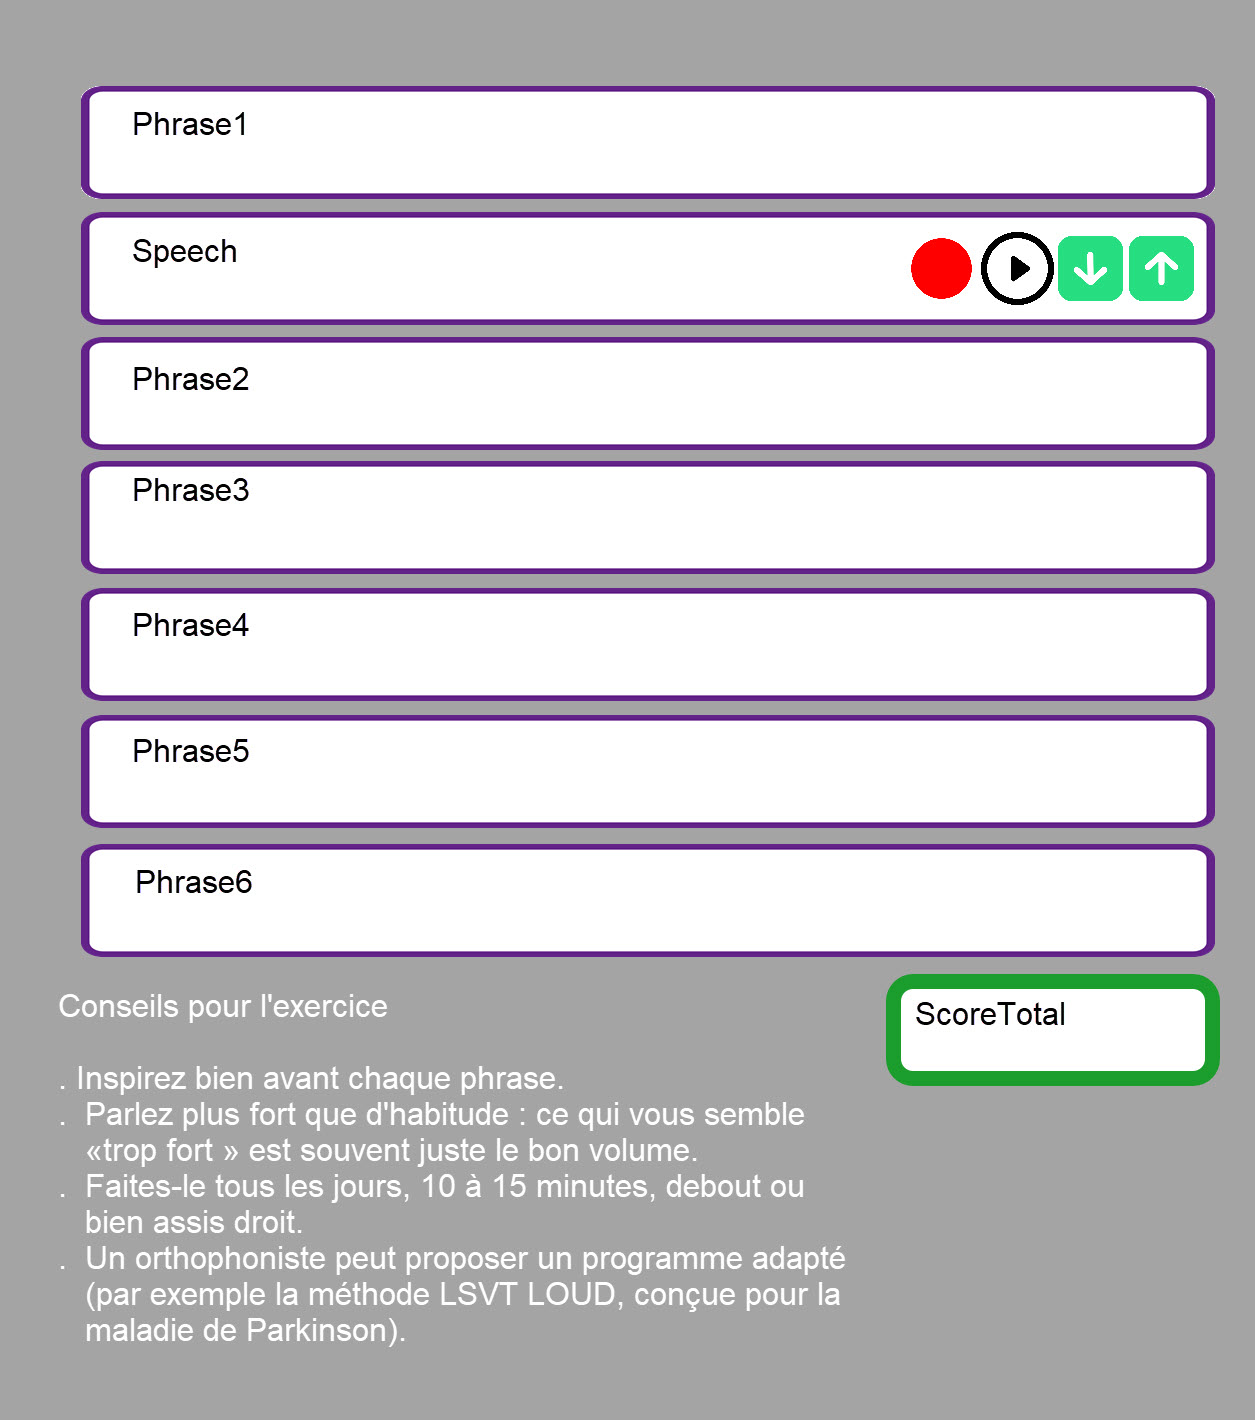
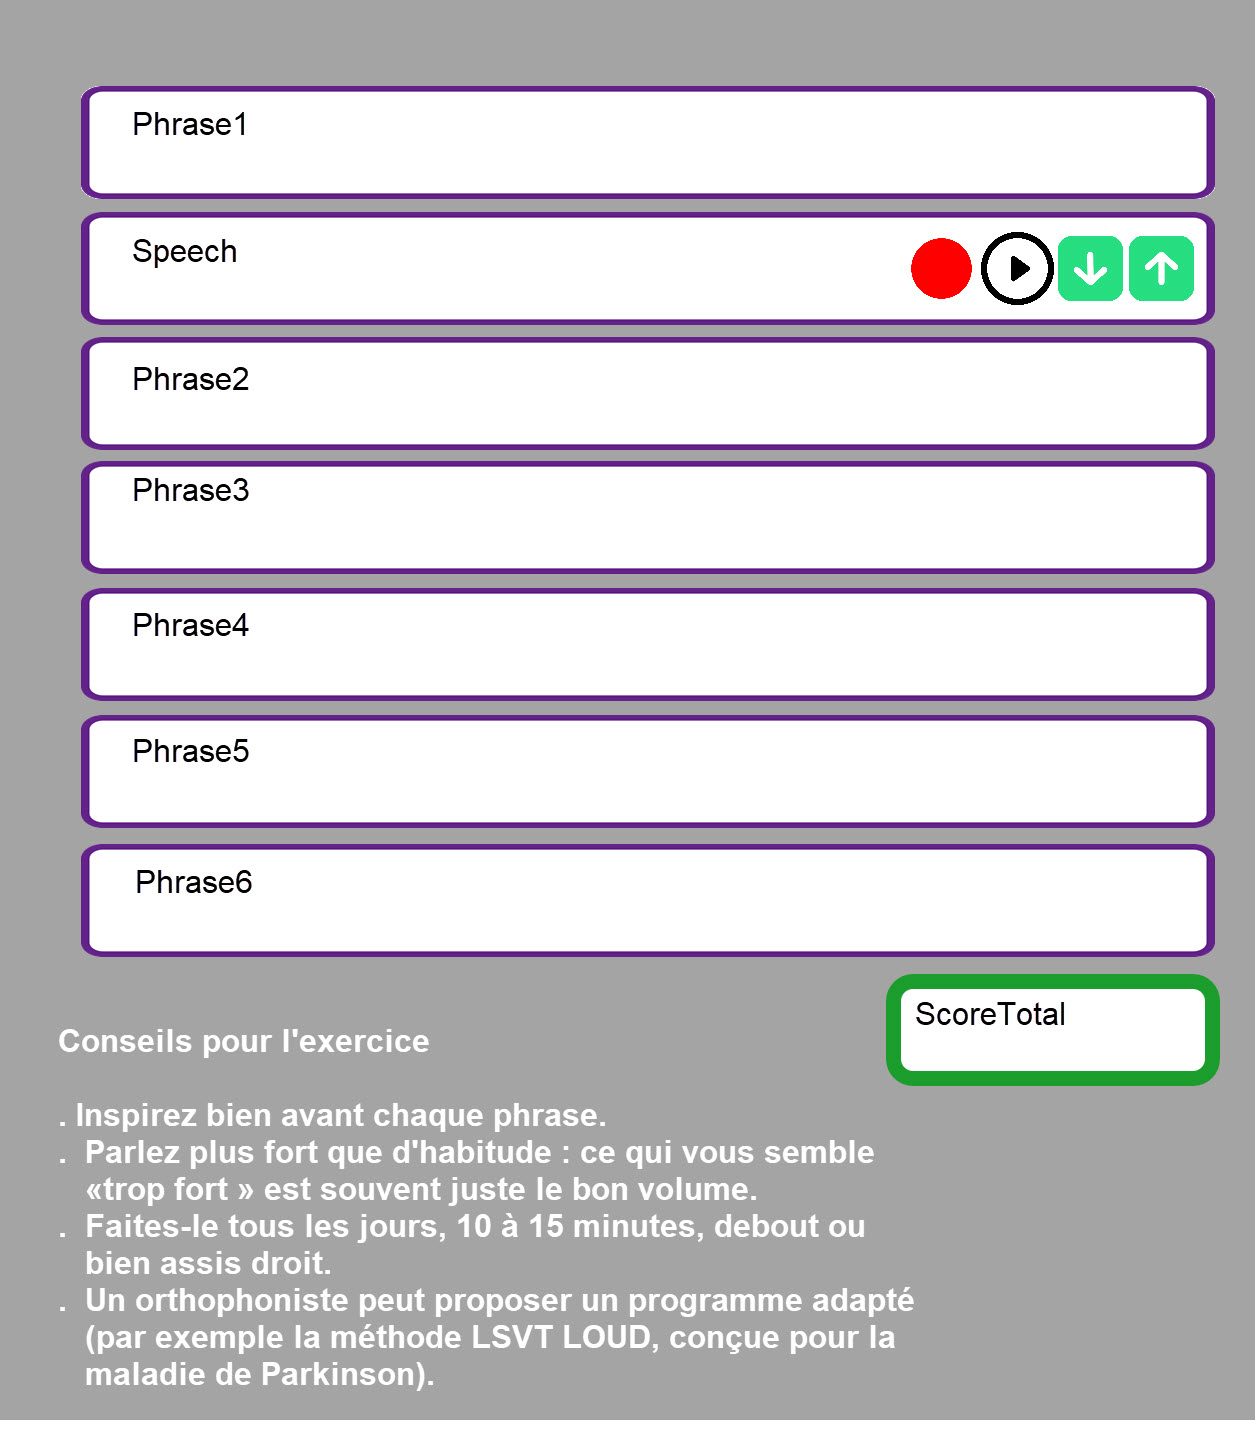
Show exercise tips in bold, matching updated GUI mockup
egui's built-in fonts have no bold face, so load Arial Bold (or Segoe UI
Bold) from the Windows fonts folder, falling back to the regular font.

Changed region(s): [[0.0, 0.1239, 1.0, 1.0], [0.0932, 0.062, 0.1865, 0.093]]

diff --git a/src/app.rs b/src/app.rs
@@ -16,6 +16,7 @@ const BACKGROUND: Color32 = Color32::from_rgb(150, 150, 150);
 const PURPLE: Color32 = Color32::from_rgb(98, 30, 140);
 const GREEN: Color32 = Color32::from_rgb(30, 160, 50);
 const TIPS_TEXT: Color32 = Color32::from_rgb(248, 248, 248);
+const BOLD: &str = "bold";
 const TEXT: Color32 = Color32::from_rgb(20, 20, 20);
 const CAPTION: Color32 = Color32::from_rgb(120, 120, 120);
 const PHRASE_FONT: f32 = 24.0;
@@ -98,6 +99,27 @@ fn row_frame() -> egui::Frame {
         .rounding(Rounding::same(12.0))
 }
 
+/// Police grasse (les polices intégrées d'egui n'en ont pas) : Arial Bold de Windows.
+fn install_bold_font(ctx: &Context) {
+    let mut fonts = egui::FontDefinitions::default();
+    let mut family: Vec<String> = Vec::new();
+    for path in ["C:/Windows/Fonts/arialbd.ttf", "C:/Windows/Fonts/segoeuib.ttf"] {
+        if let Ok(bytes) = std::fs::read(path) {
+            fonts.font_data.insert("bold".into(), egui::FontData::from_owned(bytes));
+            family.push("bold".into());
+            break;
+        }
+    }
+    // Repli sur les polices normales si aucune police grasse n'est trouvée.
+    family.extend(fonts.families[&egui::FontFamily::Proportional].iter().cloned());
+    fonts.families.insert(egui::FontFamily::Name(BOLD.into()), family);
+    ctx.set_fonts(fonts);
+}
+
+fn bold(size: f32) -> FontId {
+    FontId::new(size, egui::FontFamily::Name(BOLD.into()))
+}
+
 fn score_color(score: f32) -> Color32 {
     if score >= 80.0 {
         Color32::from_rgb(0, 140, 60)
@@ -119,6 +141,7 @@ impl ParkinsonApp {
     pub fn new(cc: &eframe::CreationContext<'_>) -> Self {
         let ctx = &cc.egui_ctx;
         ctx.set_visuals(egui::Visuals::light());
+        install_bold_font(ctx);
         ctx.style_mut(|s| {
             s.text_styles.insert(egui::TextStyle::Body, FontId::proportional(17.0));
             s.text_styles.insert(egui::TextStyle::Button, FontId::proportional(17.0));
@@ -748,14 +771,15 @@ impl ParkinsonApp {
             "Un orthophoniste peut proposer un programme adapté (par exemple la méthode LSVT LOUD, conçue pour la maladie de Parkinson).",
         ];
         ui.spacing_mut().item_spacing.y = 4.0;
-        ui.label(RichText::new("Conseils pour l'exercice").size(20.0).strong().color(TIPS_TEXT));
-        ui.add_space(6.0);
-        // Liste à puces, lignes suivantes alignées sous le texte (retrait suspendu).
+        ui.add_space(14.0);
+        ui.label(RichText::new("Conseils pour l'exercice").font(bold(21.0)).color(TIPS_TEXT));
+        ui.add_space(10.0);
+        // Liste à puces en gras, lignes suivantes alignées sous le texte (retrait suspendu).
         for t in TIPS {
             ui.horizontal_top(|ui| {
                 ui.spacing_mut().item_spacing.x = 0.0;
-                ui.add_sized([22.0, 20.0], egui::Label::new(RichText::new("•").size(18.0).color(TIPS_TEXT)));
-                ui.add(egui::Label::new(RichText::new(t).size(18.0).color(TIPS_TEXT)).wrap());
+                ui.add_sized([22.0, 22.0], egui::Label::new(RichText::new("•").font(bold(19.0)).color(TIPS_TEXT)));
+                ui.add(egui::Label::new(RichText::new(t).font(bold(19.0)).color(TIPS_TEXT)).wrap());
             });
         }
     }
